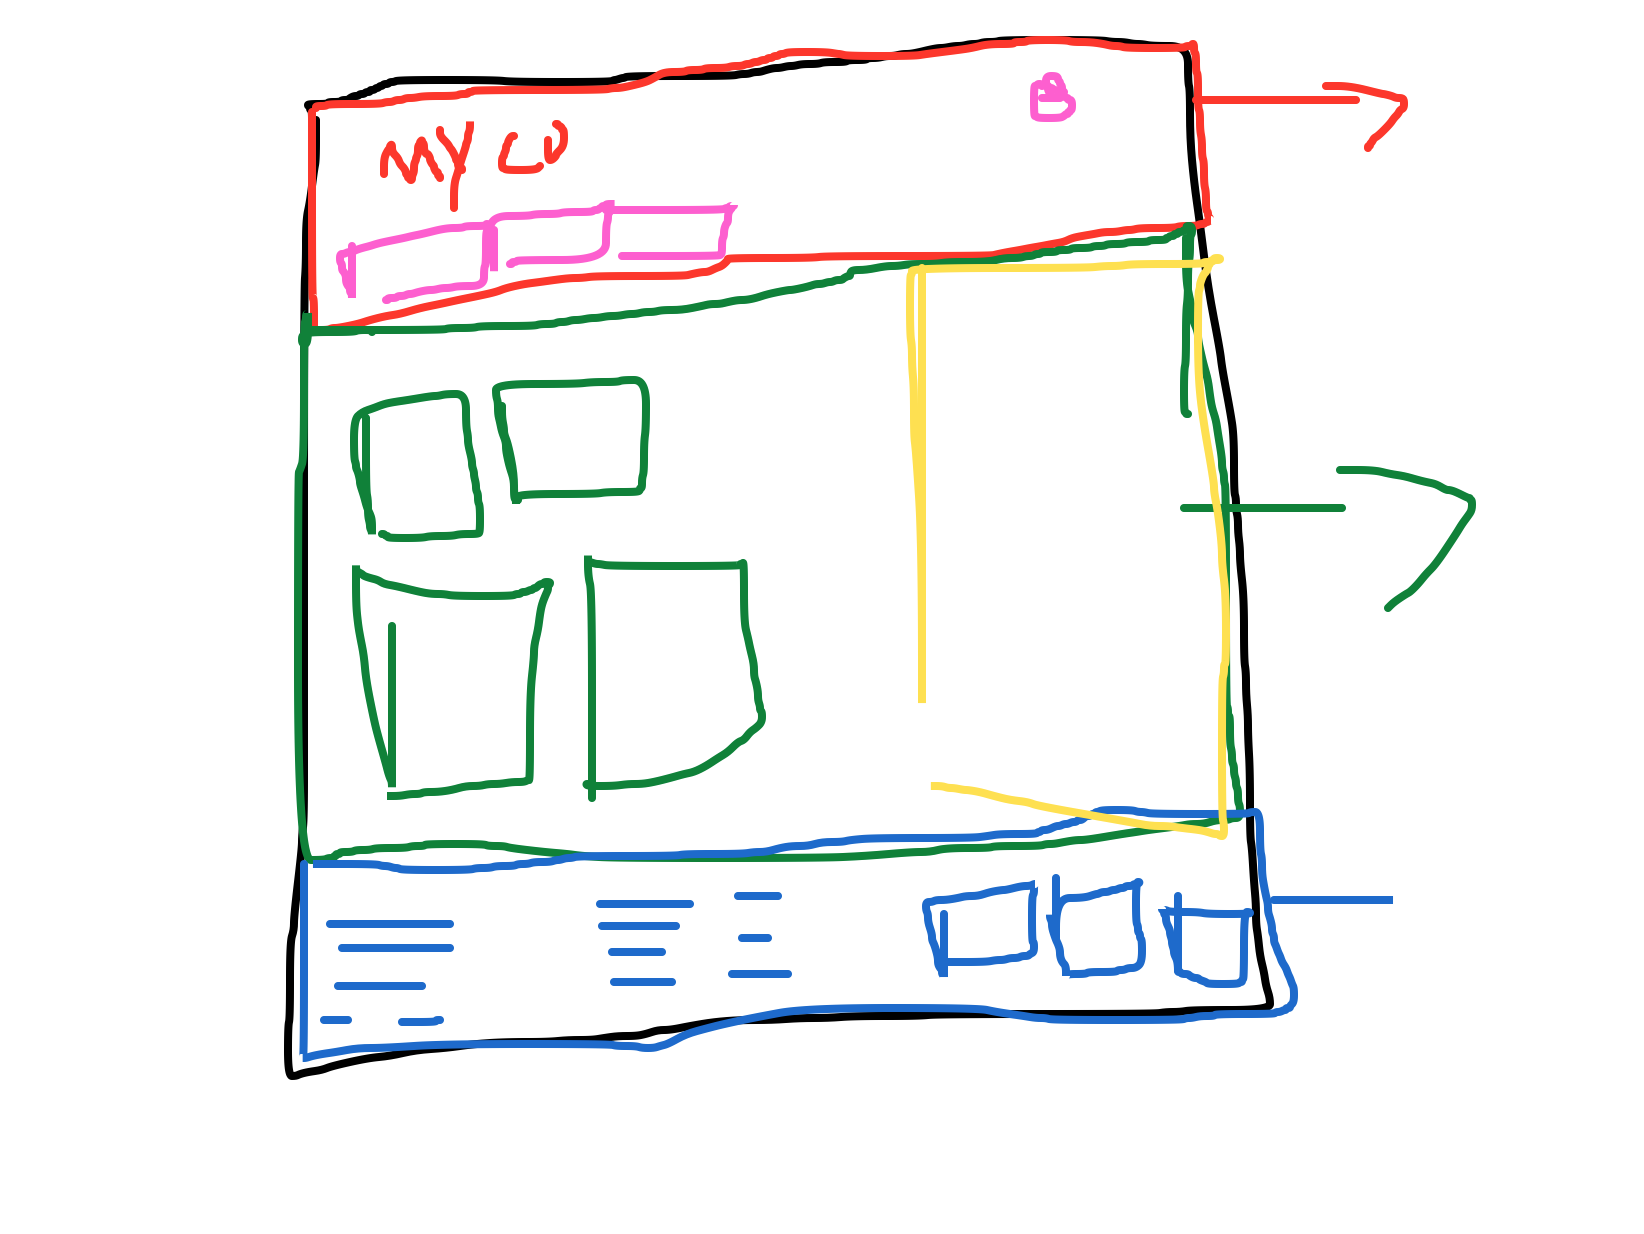
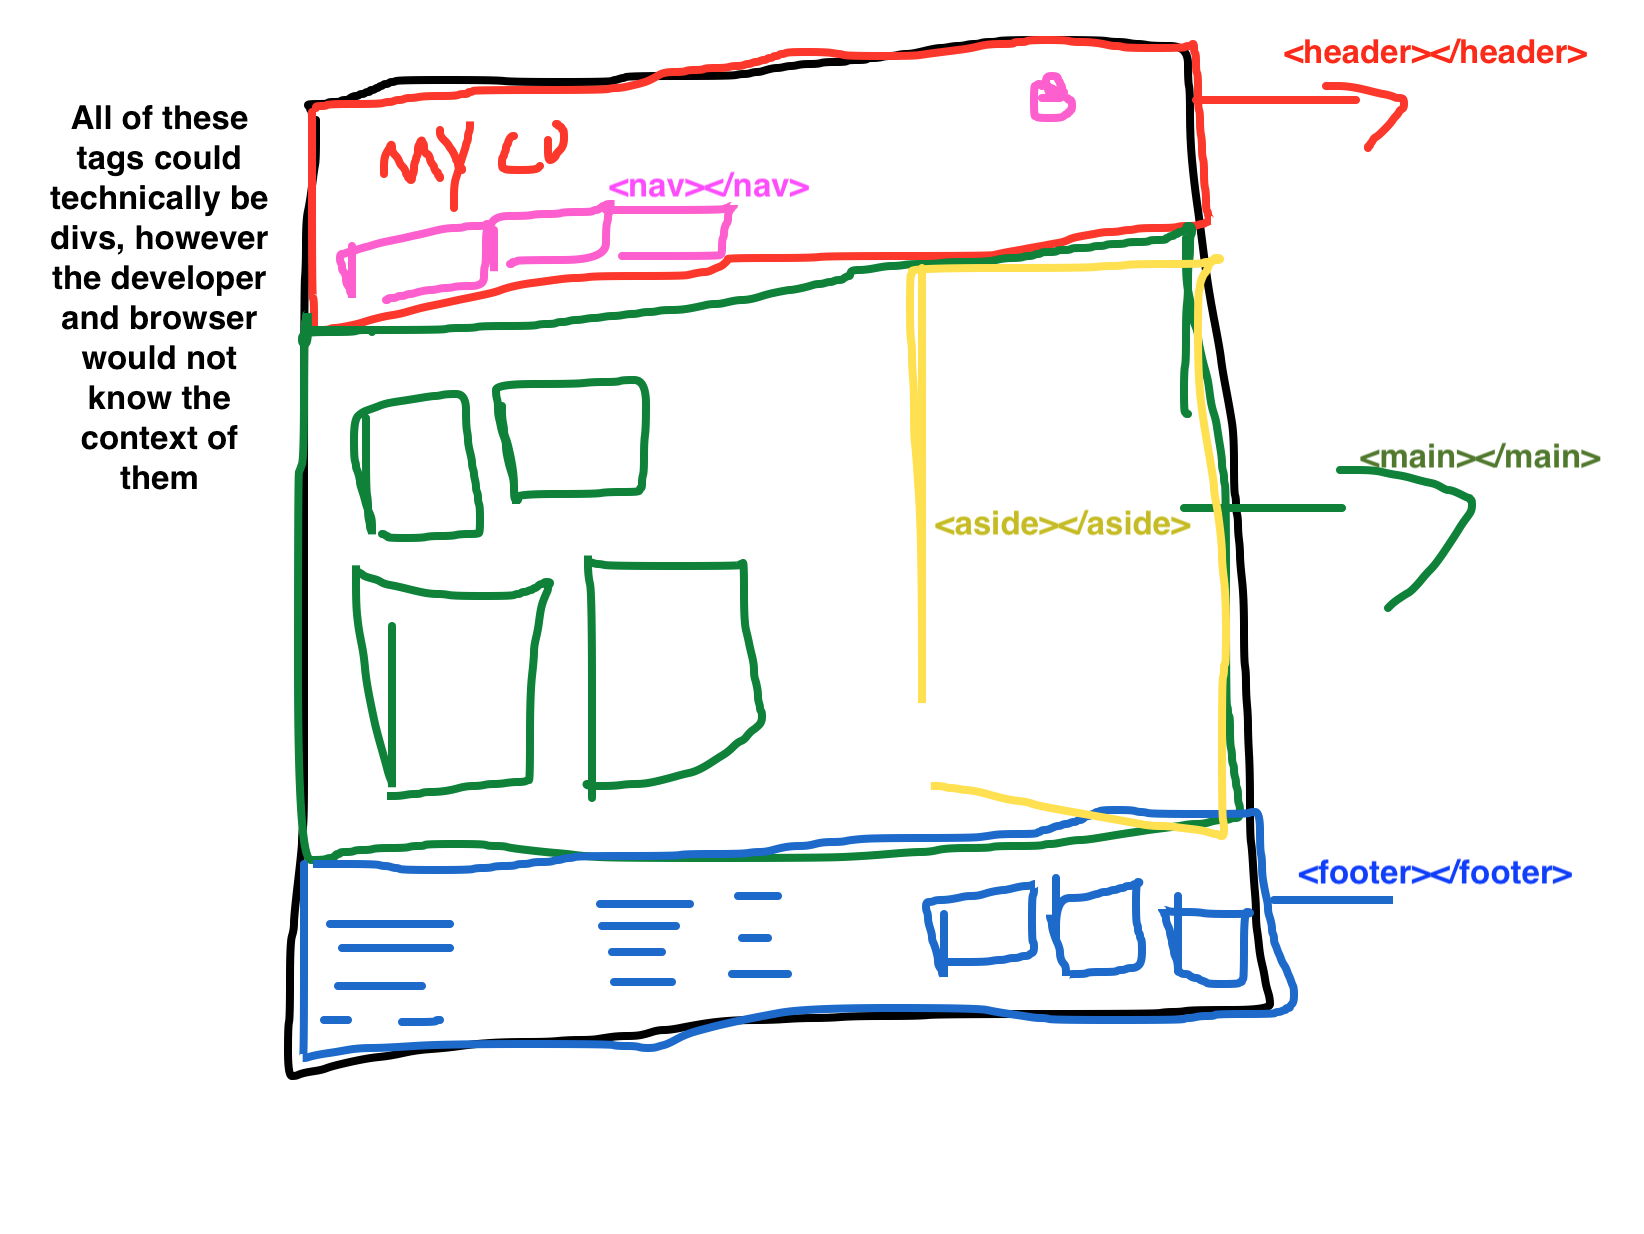
updates

diff --git a/week1/project/README.md b/week1/project/README.md
@@ -3,17 +3,17 @@
 ## Initial Dev Enviroment Set Up
 1. [Install Visual Studio Code](https://code.visualstudio.com/Download)
     - make sure you get the right version for your machine (32 v 64)
-        ![download vs code](https://github.com/kevinatown/nupaths/blob/main/resources/vs_code_download.png?raw=true)
+        ![download vs code](https://github.com/kevinatown/nupaths_web_app/blob/main/resources/vs_code_download.png?raw=true)
 2. [Install Node.js](https://nodejs.org/en/download/)
     - Pick the LTS (node-v14.x.x)
     - make sure you get the right version for your machine (32 v 64)
-        ![download node.js](https://github.com/kevinatown/nupaths/blob/main/resources/node_js_download.png?raw=true)
+        ![download node.js](https://github.com/kevinatown/nupaths_web_app/blob/main/resources/node_js_download.png?raw=true)
 
 ## Project Enviroment Set Up
-1. [Download This Repository](https://github.com/kevinatown/nupaths)
+1. [Download This Repository](https://github.com/kevinatown/nupaths_web_app)
     - Click on the breen "Code" button
     - Click on 'Download zip'
-        ![download zip image](https://github.com/kevinatown/nupaths/blob/main/resources/github_zip_download.png?raw=true)
+        ![download zip image](https://github.com/kevinatown/nupaths_web_app/blob/main/resources/github_zip_download.png?raw=true)
     - Unzip the zipped directory
     - Move the directory to a location of your choosing (your new workspace)
 2. Open VS Code
@@ -24,7 +24,7 @@
 6. Open the intergrated VS Code terminal
     - View > Terminal
     - The terminal will open at the bottom
-    ![terminal overview](https://github.com/kevinatown/nupaths/blob/main/resources/terminal.png?raw=true)
+    ![terminal overview](https://github.com/kevinatown/nupaths_web_app/blob/main/resources/terminal.png?raw=true)
     (**NOTE:** Your terminal will look different and may have a longer path
         e.g.)
         ```cmd
@@ -38,7 +38,7 @@
     ```
     - This will install node's `http-server` (which i was using) and someother tools to allow for hot-reloading, so that your web apps will reload on all CSS, HTML, and JS changes!
     (**NOTE:** You only really need to run `npm install` once for each project, however it doesnt hurt to run it again.)
-    ![npm install output](https://github.com/kevinatown/nupaths/blob/main/resources/npmi_output.png?raw=true)
+    ![npm install output](https://github.com/kevinatown/nupaths_web_app/blob/main/resources/npmi_output.png?raw=true)
 
 ## Run the project!
 1. In the teminal run:

diff --git a/week1/lessons/day2.md b/week1/lessons/day2.md
@@ -9,11 +9,25 @@
 ## Review of Dev Env
 - Ensure everyone's dev enviroment is set up
 - Quick guide around VS Code
+  ![overview of vs code ui](https://github.com/kevinatown/nupaths_web_app/blob/main/resources/vs_code_overview.png?raw=true)
 - Questions?
 
 ## HTML
 - HTML Structure
 - Semantic HTML
+  + **Semantic HTML Tags** have extra context to them. This extra context helps the developer and the browser know more about **PURPOSE** the element is used.
+  + Example of semantic elements:
+    * `article` - just like a magazine/newspaper/blog artilce, should contain information that stands alone by itself (like you can send a newspaper or magazine article to someone, you shouldnt have to provide any extra infomation). `div` with(or without) `p` tags are a non-semantic version of the `article` tag
+    * `section` - similar to article however, it does not need to live on it's own. (`article`'s can have chapters :).
+    * `strong` the semantic way to explain that something should be conveyed **stongly**. The non-semantic version will be `b`, which only adds the bold style to the content. `strong` also conveys to the developer and browser (the end user's access) that the content is not just visualy bold but also of importance.
+    * `em` the semantic way to explain that something should be conveyed _empatically_. The non-semantic version will be `i`, which only adds the bold style to the content. `em` also conveys to the developer and browser (the end user's access) that the content is not just visualy italicised but also should be emphasized.
+    * `header` the header of the page (see below for the page structure)
+    * `footer` the footer of the page (see below for the page structure)
+    * `main` the main content of the page (see below for the page structure)
+    ![mock up with semantic HTML](https://github.com/kevinatown/nupaths_web_app/blob/main/resources/header_main_footer.png?raw=true)
+  + Examples of non-semantic elements:
+    * 
+  + [Further Reading about semantic tags](https://www.w3schools.com/html/html5_semantic_elements.asp) 
 - [Overview of HTML tags](https://www.w3schools.com/tags/default.asp)
 - Questions?
 
